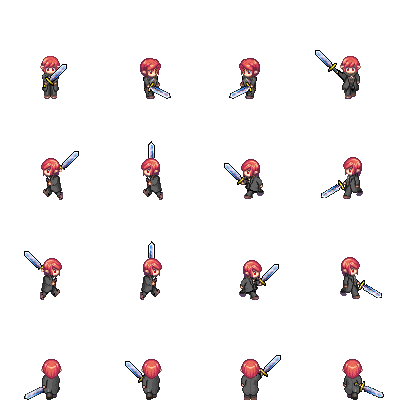
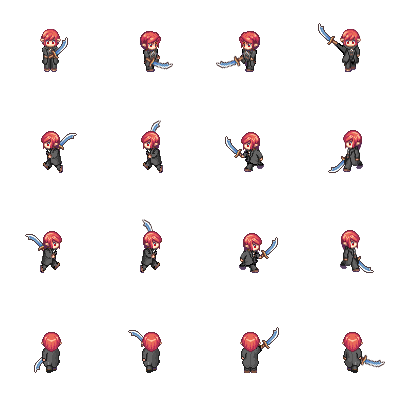
set correct image center

diff --git a/js/character.js b/js/character.js
@@ -55,7 +55,6 @@ var Character = function(type, name){
 	this.target = null;            // The targeting position or object
 	//this.stage = this.getStage();  // reference of stage for dropping item
      
-	this.boundingShape;
 };
 
 // The prototype defined as an object
@@ -169,19 +168,19 @@ var CharacterProtoType = {
 		initP = this.tileCenter(new Point(prop.x,prop.y));
 		this.x=initP.x;
 		this.y=initP.y;
-		this.regX=prop.regX;
-		this.regY=prop.regY;
 	},
 
 	setImage: function(img){
 		this.image=img;
 		frameWidth=img.width/this.numFrameX;
 		frameHeight=img.height/this.numFrameY;
+		this.regX=frameWidth/2;
+		this.regY=frameHeight/2;
 		var spriteSheet = new SpriteSheet({
 			// The large image used to define frames
 			images: [this.image], //image to use
 			// Frame size definition
-			frames: { width: frameWidth, height: frameHeight, regX: frameWidth/2, regY: frameHeight/2},
+			frames: { width: frameWidth, height: frameHeight, regX: 0, regY: 0},
 			//frames: { width: 100, height: 100, regX: 50, regY: 50},
 			// The definition of every animation it takes and the transition relation
 			animations: {
@@ -250,16 +249,6 @@ var CharacterProtoType = {
 		this.x = newP.x;
 		this.y = newP.y;
 		this.getStage().setPosOnMap(this,newP);
-
-		if(this.boundingShape)
-			this.getStage().removeChild(this.boundingShape);
-		this.boundingShape = new Shape();
-		xx=this.x-2*this.regX;
-		yy=this.y-this.regY;
-		ww=2*this.regX;
-		hh=2*this.regY;
-		this.boundingShape.graphics.beginStroke("a30000").drawRect(xx, yy, ww, hh);
-		this.getStage().addChild(this.boundingShape);
 	},
 
 	getPos : function(){
@@ -267,7 +256,7 @@ var CharacterProtoType = {
 	},
 
 	tileCenter : function(p){
-		return p.scalarPlus(0.5).scalarMult(TILE_SIZE);
+		return p.scalarMinus(0.5).scalarMult(TILE_SIZE);
 	},
 
 };

diff --git a/js/mystage.js b/js/mystage.js
@@ -43,7 +43,10 @@ MyStageProtoType={
 	 * Return : bool
 	 */
 	isPassable : function(obj, pos){
-		p = this.relPointOnMap(pos);
+		if(obj.dir==DIR_DOWN)
+			p = this.relPointOnMap(new Point(pos.x,pos.y+16));
+		else
+			p = this.relPointOnMap(pos);
 		if(p.equal(obj.posOnMap))
 			return true;
 		return ( this.getTile(p.x, p.y)==FREE );
@@ -148,9 +151,12 @@ MyStageProtoType={
 		this.tiles[x][y]=value;
 	},
 
-	indexOnMap : function(index){
-		a=Math.round(index/TILE_SIZE);
+	roundIndexOnMap : function(index){
 		return Math.round(index/TILE_SIZE);
+	},
+
+	indexOnMap : function(index){
+		return Math.floor(index/TILE_SIZE);
 	},
 
 	pointOnMap : function(p,y){
@@ -169,10 +175,10 @@ MyStageProtoType={
 
 
 	rectangleOnMap : function (r){
-		return new Rectangle(this.indexOnMap(r.x),
-			this.indexOnMap(r.y),
-			this.indexOnMap(r.width),
-			this.indexOnMap(r.height));
+		return new Rectangle(this.roundIndexOnMap(r.x),
+			this.roundIndexOnMap(r.y),
+			this.roundIndexOnMap(r.width),
+			this.roundIndexOnMap(r.height));
 
 	},
 
